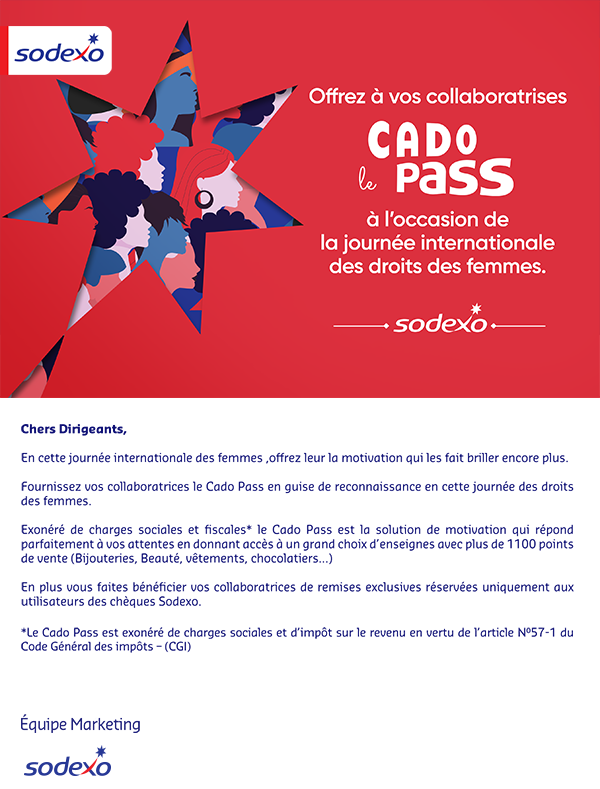
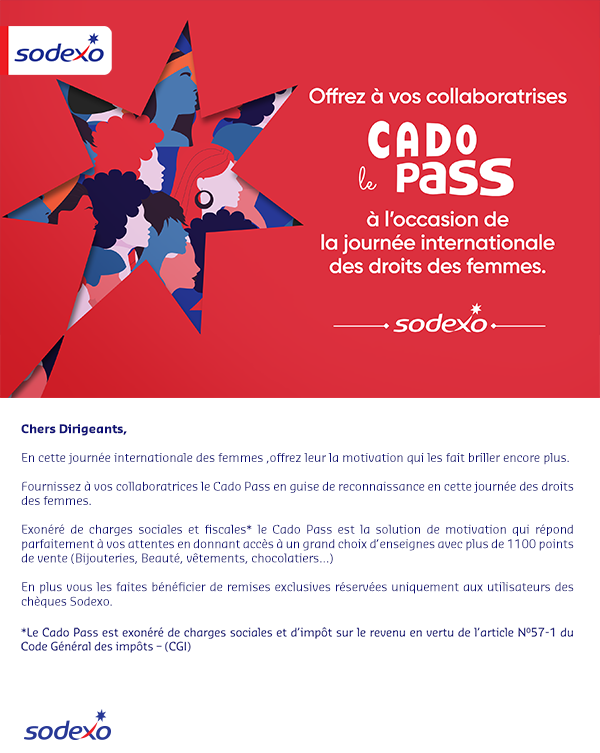
v2

Changed region(s): [[0.0, 0.0305, 1.0, 0.8858], [0.03, 0.9163, 0.24, 1.0]]

diff --git a/index.html b/index.html
@@ -1,6 +1,6 @@
 <html>
 <head>
-<title>cado_pass</title>
+<title>cado pass</title>
 <meta http-equiv="Content-Type" content="text/html; charset=utf-8">
 <style type="text/css">
 img {
@@ -9,82 +9,87 @@ display:block
 </style>
 </head>
 <body bgcolor="#FFFFFF" leftmargin="0" topmargin="0" marginwidth="0" marginheight="0">
-
 <table id="Table_01" width="601" height="1064" border="0" cellpadding="0" cellspacing="0" align="center">
 	<tr>
 		<td colspan="11">
-			<img src="images/index_01.png" width="600" height="789" alt=""></td>
+			<img src="images/index_01.png" width="600" height="753" alt=""></td>
 		<td>
-			<img src="images/spacer.gif" width="1" height="789" alt=""></td>
+			<img src="images/spacer.gif" width="1" height="753" alt=""></td>
 	</tr>
 	<tr>
-		<td colspan="2" rowspan="3">
-			<img src="images/index_02.png" width="21" height="51" alt=""></td>
+		<td colspan="2" rowspan="4">
+			<img src="images/index_02.png" width="21" height="87" alt=""></td>
 		<td colspan="2" rowspan="2">
 			<a href="https://sodexo.ma/offres" target="_blank">
-				<img src="images/Devis.png" width="136" height="40" border="0" alt=""></a></td>
-		<td rowspan="3">
-			<img src="images/index_04.png" width="310" height="51" alt=""></td>
-		<td>
-			<a href="https://www.instagram.com/sodexo_pass_maroc/" target="_blank">
-				<img src="images/Instagram.png" width="31" height="36" border="0" alt=""></a></td>
-		<td rowspan="3">
-			<img src="images/index_06.png" width="10" height="51" alt=""></td>
-		<td>
-			<a href="https://www.facebook.com/SodexoPassMaroc" target="_blank">
-				<img src="images/FB.png" width="30" height="36" border="0" alt=""></a></td>
-		<td rowspan="3">
-			<img src="images/index_08.png" width="6" height="51" alt=""></td>
-		<td>
-			<a href="https://tn.linkedin.com/company/sodexo" target="_blank">
-				<img src="images/Linkedin.png" width="36" height="36" border="0" alt=""></a></td>
-		<td rowspan="3">
-			<img src="images/index_10.png" width="20" height="51" alt=""></td>
+				<img src="images/Devis.png" width="141" height="39" border="0" alt=""></a></td>
+		<td colspan="7">
+			<img src="images/index_04.png" width="438" height="36" alt=""></td>
 		<td>
 			<img src="images/spacer.gif" width="1" height="36" alt=""></td>
 	</tr>
 	<tr>
+		<td rowspan="3">
+			<img src="images/index_05.png" width="305" height="51" alt=""></td>
 		<td rowspan="2">
-			<img src="images/index_11.png" width="31" height="15" alt=""></td>
+			<a href="https://www.instagram.com/sodexo_pass_maroc/" target="_blank">
+				<img src="images/Instagram.png" width="31" height="36" border="0" alt=""></a></td>
+		<td rowspan="3">
+			<img src="images/index_07.png" width="10" height="51" alt=""></td>
 		<td rowspan="2">
-			<img src="images/index_12.png" width="30" height="15" alt=""></td>
+			<a href="https://www.facebook.com/SodexoPassMaroc" target="_blank">
+				<img src="images/FB.png" width="30" height="36" border="0" alt=""></a></td>
+		<td rowspan="3">
+			<img src="images/index_09.png" width="6" height="51" alt=""></td>
 		<td rowspan="2">
-			<img src="images/index_13.png" width="36" height="15" alt=""></td>
+			<a href="https://tn.linkedin.com/company/sodexo" target="_blank">
+				<img src="images/Linkedin.png" width="36" height="36" border="0" alt=""></a></td>
+		<td rowspan="3">
+			<img src="images/index_11.png" width="20" height="51" alt=""></td>
 		<td>
-			<img src="images/spacer.gif" width="1" height="4" alt=""></td>
+			<img src="images/spacer.gif" width="1" height="3" alt=""></td>
 	</tr>
 	<tr>
-		<td colspan="2">
-			<img src="images/index_14.png" width="136" height="11" alt=""></td>
+		<td colspan="2" rowspan="2">
+			<img src="images/index_12.png" width="141" height="48" alt=""></td>
 		<td>
-			<img src="images/spacer.gif" width="1" height="11" alt=""></td>
+			<img src="images/spacer.gif" width="1" height="33" alt=""></td>
+	</tr>
+	<tr>
+		<td>
+			<img src="images/index_13.png" width="31" height="15" alt=""></td>
+		<td>
+			<img src="images/index_14.png" width="30" height="15" alt=""></td>
+		<td>
+			<img src="images/index_15.png" width="36" height="15" alt=""></td>
+		<td>
+			<img src="images/spacer.gif" width="1" height="15" alt=""></td>
 	</tr>
 	<tr>
 		<td colspan="11">
-			<img src="images/index_15.png" width="600" height="76" alt=""></td>
+			<img src="images/index_16.png" width="600" height="76" alt=""></td>
 		<td>
 			<img src="images/spacer.gif" width="1" height="76" alt=""></td>
 	</tr>
 	<tr>
 		<td colspan="11">
-			<img src="images/index_16.png" width="600" height="84" alt=""></td>
+			<img src="images/index_17.png" width="600" height="84" alt=""></td>
 		<td>
 			<img src="images/spacer.gif" width="1" height="84" alt=""></td>
 	</tr>
 	<tr>
 		<td>
-			<img src="images/index_17.png" width="15" height="11" alt=""></td>
+			<img src="images/index_18.png" width="15" height="11" alt=""></td>
 		<td colspan="2">
 			<a href="https://sodexo.ma/nous-contactez" target="_blank">
 				<img src="images/Contact.png" width="97" height="11" border="0" alt=""></a></td>
 		<td colspan="8">
-			<img src="images/index_19.png" width="488" height="11" alt=""></td>
+			<img src="images/index_20.png" width="488" height="11" alt=""></td>
 		<td>
 			<img src="images/spacer.gif" width="1" height="11" alt=""></td>
 	</tr>
 	<tr>
 		<td colspan="11">
-			<img src="images/index_20.png" width="600" height="52" alt=""></td>
+			<img src="images/index_21.png" width="600" height="52" alt=""></td>
 		<td>
 			<img src="images/spacer.gif" width="1" height="52" alt=""></td>
 	</tr>
@@ -96,9 +101,9 @@ display:block
 		<td>
 			<img src="images/spacer.gif" width="91" height="1" alt=""></td>
 		<td>
-			<img src="images/spacer.gif" width="45" height="1" alt=""></td>
+			<img src="images/spacer.gif" width="50" height="1" alt=""></td>
 		<td>
-			<img src="images/spacer.gif" width="310" height="1" alt=""></td>
+			<img src="images/spacer.gif" width="305" height="1" alt=""></td>
 		<td>
 			<img src="images/spacer.gif" width="31" height="1" alt=""></td>
 		<td>
